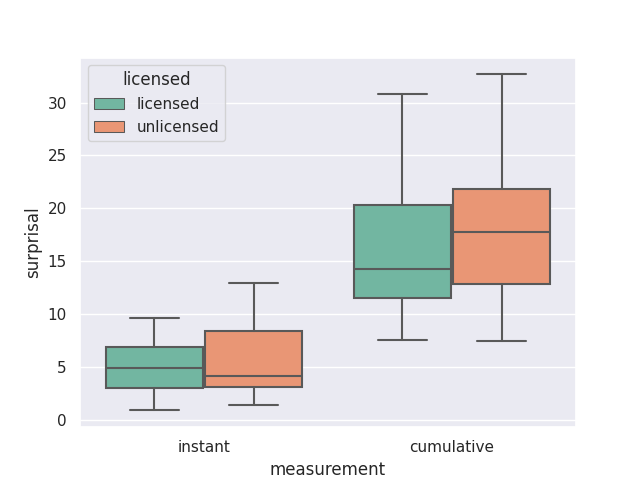
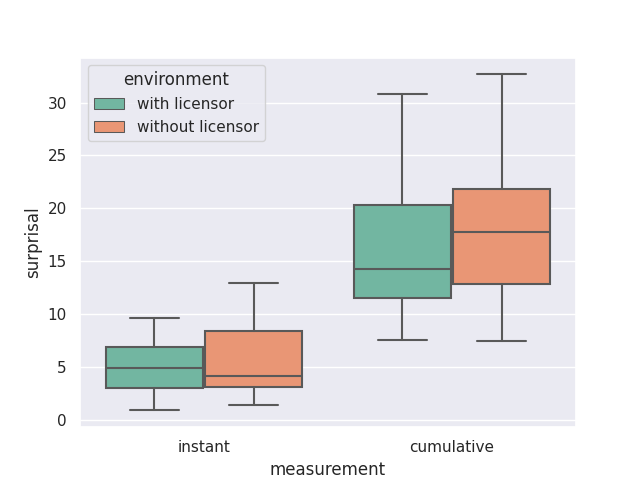
Update graphic

Changed region(s): [[0.1875, 0.1562, 0.4062, 0.2812]]

diff --git a/src/main.py b/src/main.py
@@ -200,19 +200,19 @@ def foo():
     for i, ((good_pnt, good_cum), (bad_pnt, bad_cum)) in enumerate(zip(good, bad)):
         res = res.append([{'sentence' : i,
                            'measurement' : 'instant',
-                           'licensed' : 'licensed',
+                           'environment' : 'with licensor',
                            'surprisal' : good_pnt},
                           {'sentence' : i,
                            'measurement' : 'instant',
-                           'licensed' : 'unlicensed',
+                           'environment' : 'without licensor',
                            'surprisal' : bad_pnt},
                           {'sentence' : i,
                            'measurement' : 'cumulative',
-                           'licensed' : 'licensed',
+                           'environment' : 'with licensor',
                            'surprisal' : good_cum},
                           {'sentence' : i,
                            'measurement' : 'cumulative',
-                           'licensed' : 'unlicensed',
+                           'environment' : 'without licensor',
                            'surprisal' : bad_cum}])
     #    return ttest_1samp(thing, 0, alternative='greater')
     return res
